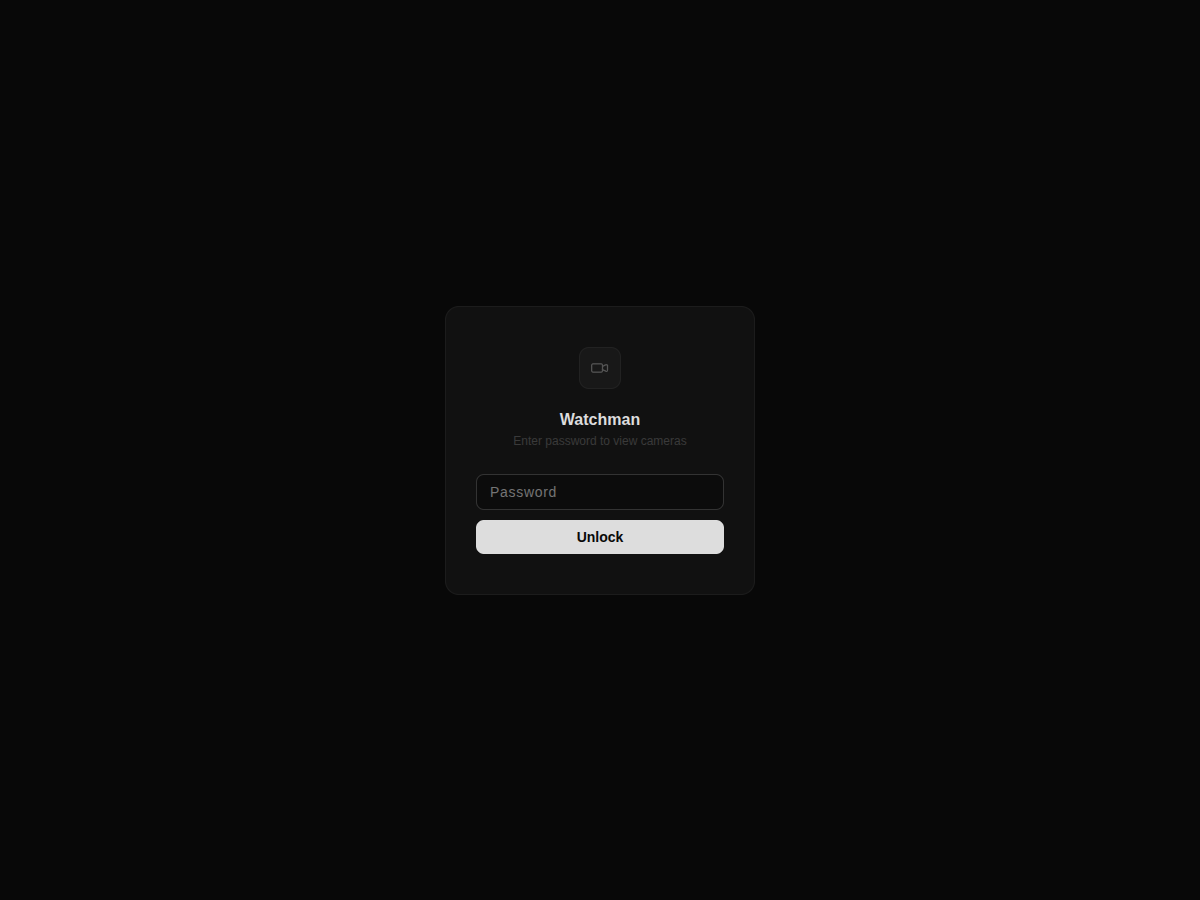
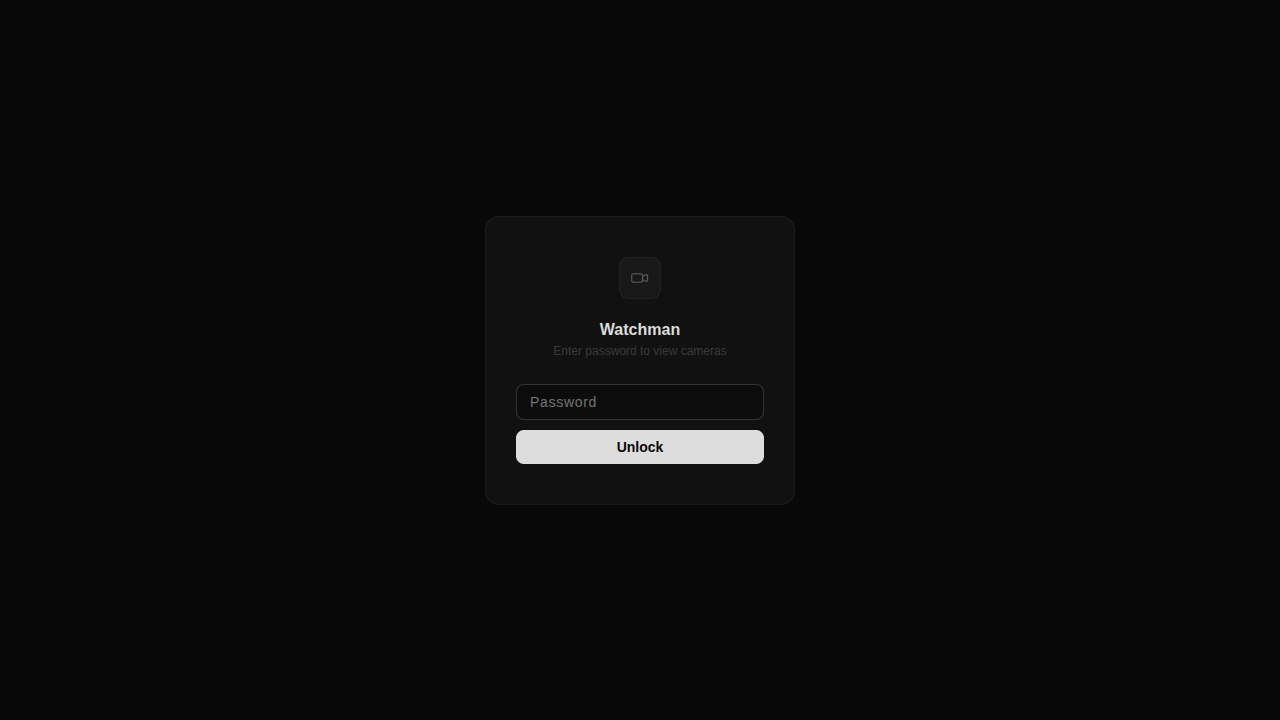
Update screenshots: 16:9, stacked vertically, labels visible

Changed region(s): [[0.37, 0.5194, 0.6167, 0.6417], [0.4625, 0.4278, 0.555, 0.4889]]

diff --git a/README.md b/README.md
@@ -4,9 +4,8 @@ Full-screen, browser-based camera wall for any RTSP source.
 Password-protected, persistent login — built to run on low-power hardware like a Raspberry Pi or mini PC.
 
 <p align="center">
-  <img src="docs/login.png" width="48%" alt="Login screen" />
-  &nbsp;
-  <img src="docs/watch.png" width="48%" alt="Camera wall" />
+  <img src="docs/login.png" width="100%" alt="Login screen" />
+  <img src="docs/watch.png" width="100%" alt="Camera wall" />
 </p>
 
 ## How it works
